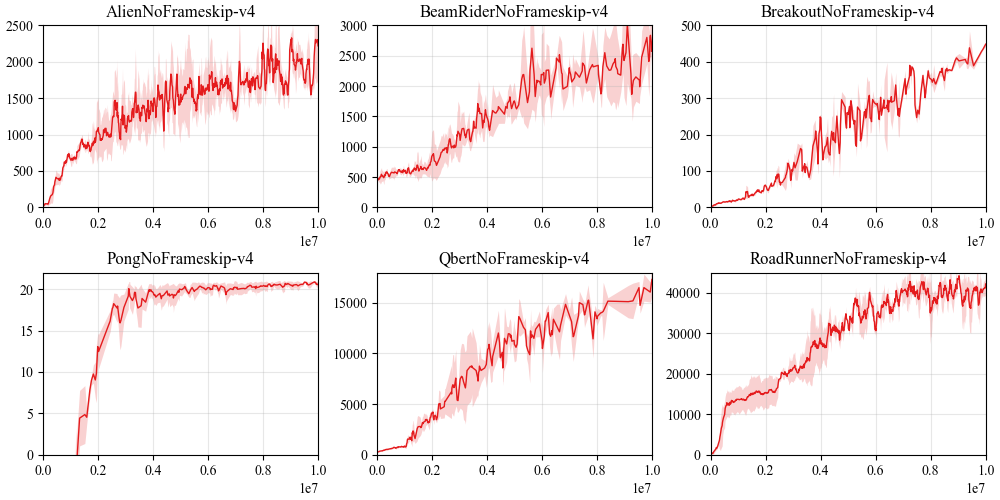
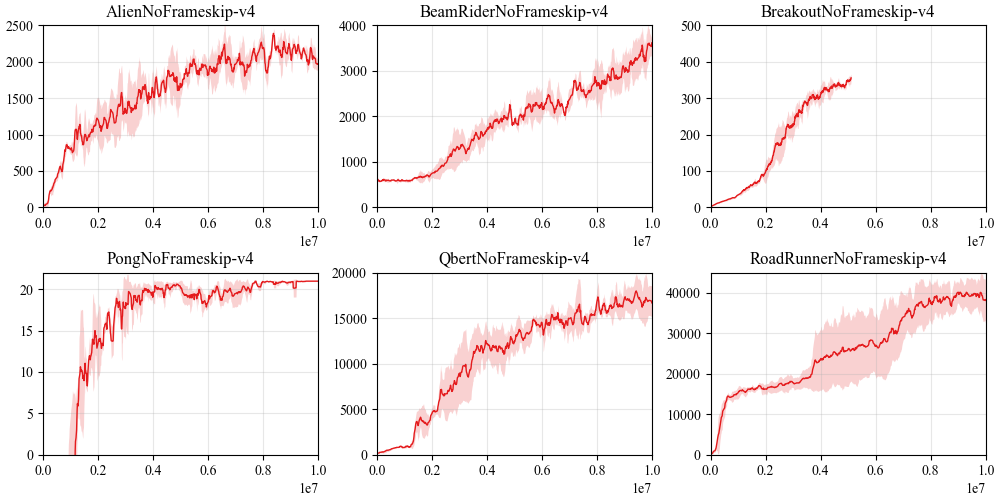
use xparl

diff --git a/benchmark/torch/ppo/env_utils.py b/benchmark/torch/ppo/env_utils.py
@@ -17,13 +17,14 @@ import gym
 import numpy as np
 from parl.utils import logger
 from parl.env.atari_wrappers import wrap_deepmind
+from parl.env.mujoco_wrappers import wrap_rms
 
+TEST_EPISODE = 3
 # wrapper parameters for atari env
 ENV_DIM = 84
 OBS_FORMAT = 'NCHW'
 # wrapper parameters for mujoco env
 GAMMA = 0.99
-CLIP_BOUND = 10
 
 
 class ParallelEnv(object):
@@ -46,13 +47,13 @@ class ParallelEnv(object):
         else:
             self.env_list = [base_env(env_name) for _ in range(self.env_num)]
 
-        self.obs_space = self.env_list[0].obs_space
-        self.act_space = self.env_list[0].act_space
         self._max_episode_steps = self.env_list[0]._max_episode_steps
 
-        self.episode_reward_list = [0] * self.env_num
-        self.episode_steps_list = [0] * self.env_num
         self.total_steps = 0
+        self.episode_steps_list = [0] * self.env_num
+        self.episode_reward_list = [0] * self.env_num
+        # used for env initialization for evaluating mujoco environment
+        self.eval_ob_rms = None
 
     def reset(self):
         obs_list = [env.reset() for env in self.env_list]
@@ -62,10 +63,7 @@ class ParallelEnv(object):
         return self.obs_list
 
     def step(self, action_list):
-        next_obs_list = []
-        reward_list = []
-        done_list = []
-        info_list = []
+        next_obs_list, reward_list, done_list, info_list = [], [], [], []
         if self.use_xparl:
             return_list = [
                 self.env_list[i].step(action_list[i])
@@ -96,12 +94,16 @@ class ParallelEnv(object):
 
             if done or self.episode_steps_list[i] >= self._max_episode_steps:
                 # logger.info("Training env {} done, episode reward: {}".format(i, self.episode_reward_list[i]))
+                if self.use_xparl:
+                    obs = self.env_list[i].reset()
+                    next_obs = obs.get()
+                    next_obs = np.array(next_obs)
+                else:
+                    next_obs = self.env_list[i].reset()
                 self.episode_steps_list[i] = 0
                 self.episode_reward_list[i] = 0
+                self.global_ob_rms = self.env_list[i].get_ob_rms()
 
-                next_obs = self.env_list[i].reset()
-                if self.use_xparl:
-                    pass
             next_obs_list.append(next_obs)
             reward_list.append(reward)
             done_list.append(done)
@@ -111,21 +113,19 @@ class ParallelEnv(object):
 
 
 class LocalEnv(object):
-    def __init__(self, env_name, env_seed=None):
+    def __init__(self, env_name, env_seed=None, test=False, ob_rms=None):
         env = gym.make(env_name)
         self._max_episode_steps = env._max_episode_steps
-        env = gym.wrappers.RecordEpisodeStatistics(env)
 
         if hasattr(env.action_space, 'high'):
-            env = gym.wrappers.ClipAction(env)
-            env = gym.wrappers.NormalizeObservation(env)
-            env = gym.wrappers.TransformObservation(
-                env, lambda obs: np.clip(obs, -CLIP_BOUND, CLIP_BOUND))
-            env = gym.wrappers.NormalizeReward(env, gamma=GAMMA)
-            env = gym.wrappers.TransformReward(
-                env, lambda reward: np.clip(reward, -CLIP_BOUND, CLIP_BOUND))
-            self.env = env
+            self.continuous_action = True
+            if test:
+                self.env = wrap_rms(env, GAMMA, test=True, ob_rms=ob_rms)
+            else:
+                self.env = wrap_rms(env, gamma=GAMMA)
         elif hasattr(env.action_space, 'n'):
+            self.continuous_action = False
+            env = gym.wrappers.RecordEpisodeStatistics(env)
             self.env = wrap_deepmind(env, dim=ENV_DIM, obs_format=OBS_FORMAT)
         else:
             raise AssertionError(
@@ -142,37 +142,49 @@ class LocalEnv(object):
 
     def reset(self):
         obs = self.env.reset()
+        if obs.shape[0] == 1:
+            obs = np.squeeze(obs, axis=0)
         return obs
 
     def step(self, action):
-        return self.env.step(action)
+        next_obs, reward, done, info = self.env.step(action)
+        if next_obs.shape[0] == 1:
+            next_obs = np.squeeze(next_obs, axis=0)
+        return next_obs, reward, done, info
+
+    def get_ob_rms(self):
+        if self.continuous_action:
+            return self.env.get_ob_rms()
+        else:
+            return None
+
+    def set_ob_rms(self, ob_rms):
+        if self.continuous_action:
+            return self.env.set_ob_rms(ob_rms)
+        else:
+            return None
 
 
 @parl.remote_class(wait=False)
 class RemoteEnv(object):
-    def __init__(self, env_name, env_seed=None):
+    def __init__(self, env_name, env_seed=None, test=False, ob_rms=None):
         env = gym.make(env_name)
         self._max_episode_steps = env._max_episode_steps
-        env = gym.wrappers.RecordEpisodeStatistics(env)
 
         if hasattr(env.action_space, 'high'):
-            env = gym.wrappers.ClipAction(env)
-            env = gym.wrappers.NormalizeObservation(env)
-            env = gym.wrappers.TransformObservation(
-                env, lambda obs: np.clip(obs, -10, 10))
-            env = gym.wrappers.NormalizeReward(env, gamma=0.99)
-            env = gym.wrappers.TransformReward(
-                env, lambda reward: np.clip(reward, -10, 10))
-            self.env = env
+            self.continuous_action = True
+            if test:
+                self.env = wrap_rms(env, GAMMA, test=True, ob_rms=ob_rms)
+            else:
+                self.env = wrap_rms(env, gamma=GAMMA)
         elif hasattr(env.action_space, 'n'):
+            self.continuous_action = False
+            env = gym.wrappers.RecordEpisodeStatistics(env)
             self.env = wrap_deepmind(env, dim=ENV_DIM, obs_format=OBS_FORMAT)
         else:
             raise AssertionError(
                 "act_space must be instance of gym.spaces.Box or gym.spaces.Discrete"
             )
-
-        self.obs_space = self.env.observation_space
-        self.act_space = self.env.action_space
         if env_seed:
             self.env.seed(env_seed)
             self.env.action_space.seed(env_seed)
@@ -184,3 +196,20 @@ class RemoteEnv(object):
 
     def step(self, action):
         return self.env.step(action)
+
+    def get_ob_rms(self):
+        if self.continuous_action:
+            return self.env.get_ob_rms()
+        else:
+            return None
+
+    def set_ob_rms(self, ob_rms):
+        if self.continuous_action:
+            return self.env.set_ob_rms(ob_rms)
+        else:
+            return None
+
+    def render(self):
+        return logger.warning(
+            'Can not render in remote environment, render() have been skipped.'
+        )

diff --git a/benchmark/torch/ppo/train.py b/benchmark/torch/ppo/train.py
@@ -26,35 +26,44 @@ from agent import PPOAgent
 
 # Runs policy until 'real done' and returns episode reward
 # A fixed seed is used for the eval environment
-def run_evaluate_episodes(agent, eval_env_seed=120):
-    env = LocalEnv(args.env, env_seed=eval_env_seed)
+def run_evaluate_episodes(agent, eval_env, eval_episodes):
     eval_reward = 0.
-    while True:
-        obs = env.reset()
+    eval_episode_rewards = []
+    while len(eval_episode_rewards) < eval_episodes:
+        obs = eval_env.reset()
         done = False
         while not done:
             action = agent.predict(obs)
-            obs, reward, done, info = env.step(action)
+            obs, reward, done, info = eval_env.step(action)
         if "episode" in info.keys():
             eval_reward = info["episode"]["r"]
-            break
-    return eval_reward
+            eval_episode_rewards.append(eval_reward)
+    return np.mean(eval_episode_rewards)
 
 
 def main():
     logger.info("------------------- PPO ---------------------")
-    logger.info('Env: {}, env_num: {}, seed: {}'.format(
-        args.env, args.env_num, args.seed))
+    logger.info('Env: {}, seed: {}'.format(args.env, args.seed))
     logger.info("---------------------------------------------")
 
-    logger.set_dir('./train_logs/{}_{}'.format(args.env, args.seed))
-
     config = Config['mujoco'] if args.continuous_action else Config['atari']
+    if args.env_num:
+        config['env_num'] = args.env_num
+    config['batch_size'] = int(config['env_num'] * config['step_nums'])
+    config['minibatch_size'] = int(
+        config['batch_size'] // config['num_minibatches'])
+    config['num_updates'] = int(
+        config['train_total_steps'] // config['batch_size'])
+
+    logger.set_dir('./train_logs_{}_envs/{}_{}'.format(config['env_num'],
+                                                       args.env, args.seed))
 
     envs = ParallelEnv(
         args.env, args.seed, config=config, xparl_addr=args.xparl_addr)
-    obs_space = envs.obs_space
-    act_space = envs.act_space
+    eval_env = LocalEnv(args.env, test=True)
+
+    obs_space = eval_env.obs_space
+    act_space = eval_env.act_space
 
     model = PPOModel(obs_space, act_space)
     ppo = PPO(model, config)
@@ -78,15 +87,14 @@ def main():
             rollout.append(obs, action, logprob, reward, done, value.flatten())
             obs, done = next_obs, next_done
 
-            for item in info:
-                if "episode" in item.keys():
-                    rewards = item['episode']['r']
+            for k in range(config['env_num']):
+                if done[k]:
                     logger.info(
-                        "Training: total steps={}, episode reward={}".format(
-                            total_steps, rewards))
-                    tensorboard.add_scalar("train/episode_reward", rewards,
+                        "Training: total steps={}, episodic_return={}".format(
+                            total_steps, info[k]['episode']['r']))
+                    tensorboard.add_scalar("train/episode_reward",
+                                           info[k]["episode"]["r"],
                                            total_steps)
-                    break
 
         # Bootstrap value if not done
         value = agent.value(obs)
@@ -99,11 +107,16 @@ def main():
         if (total_steps + 1) // args.test_every_steps >= test_flag:
             while (total_steps + 1) // args.test_every_steps >= test_flag:
                 test_flag += 1
-                avg_reward = run_evaluate_episodes(agent)
+                if args.continuous_action:
+                    ob_ram = envs.eval_ob_rms
+                    eval_env.set_ob_rms(ob_ram)
+
+                avg_reward = run_evaluate_episodes(agent, eval_env,
+                                                   config['eval_episode'])
                 tensorboard.add_scalar('eval/episode_reward', avg_reward,
                                        total_steps)
                 logger.info('Evaluation over: {} episodes, Reward: {}'.format(
-                    3, avg_reward))
+                    config['eval_episode'], avg_reward))
 
 
 if __name__ == "__main__":
@@ -111,31 +124,31 @@ if __name__ == "__main__":
     parser.add_argument(
         "--env",
         type=str,
-        default="HalfCheetah-v2",
-        help="the id of the environment")
+        default="PongNoFrameskip-v4",
+        help="OpenAI gym environment name")
     parser.add_argument(
         "--seed", type=int, default=110, help="seed of the experiment")
     parser.add_argument(
         "--env_num",
         type=int,
-        default=1,
+        default=None,
         help=
         "number of the environment. Note: if greater than 1, xparl is needed")
     parser.add_argument(
-        "--continuous_action",
-        type=bool,
-        default=True,
-        help="the type of the environment")
+        '--continuous_action',
+        action='store_true',
+        default=False,
+        help='action type of the environment')
     parser.add_argument(
         "--xparl_addr",
         type=str,
         default=None,
-        help="the id of the environment")
+        help="xparl address for distributed training ")
     parser.add_argument(
         '--test_every_steps',
         type=int,
         default=int(5e3),
-        help='The step interval between two consecutive evaluations')
+        help='the step interval between two consecutive evaluations')
 
     args = parser.parse_args()
     main()

diff --git a/benchmark/torch/ppo/configs.py b/benchmark/torch/ppo/configs.py
@@ -25,10 +25,7 @@ atari_config = {
     'num_minibatches': 4,
     'update_epochs':
     4,  # number of epochs for updating using each T data (ie K in the paper)
-    'batch_size': int(8 * 128),  # env_num * step_nums
-    'minibatch_size': int(8 * 128 // 4),  # batch_size // num_minibatches
-    'num_updates': int(
-        int(1e7) // int(8 * 128)),  # train_total_steps // batch_size
+    'eval_episode': 3,
 
     #========== coefficient of ppo ==========
     'gamma': 0.99,
@@ -57,12 +54,9 @@ mujoco_config = {
     'step_nums': 2048,
     'num_minibatches': 32,
     'update_epochs': 10,
-    'batch_size': int(1 * 2048),
-    'minibatch_size': int(1 * 2048 // 32),
-    'num_updates': int(int(1e6) // int(1 * 2048)),
     'start_lr': 3e-4,
     'eps': 1e-5,
-
+    'eval_episode': 3,
     #========== coefficient of ppo ==========
     'gamma': 0.99,
     'gae': True,

diff --git a/benchmark/torch/ppo/README.md b/benchmark/torch/ppo/README.md
@@ -26,19 +26,16 @@ Please see [mujoco-py](https://github.com/openai/mujoco-py) to know more about M
 ### Local Training:
 
 ```
-# To train an agent for continuous action game (Mujoco: HalfCheetah-v2 by default)
+# To train an agent for discrete action game (Atari: PongNoFrameskip-v4 by default)
 python train.py
 
-# To train an agent for discrete action game (Atari)
-python train.py --env 'BreakoutNoFrameskip-v4' --env_num 8 --continuous_action False
-
-# For more customized arguments
-# python train.py --help
+# To train an agent for continuous action game (Mujoco)
+python train.py --env 'HalfCheetah-v2' --continuous_action
 ```
 
 ### Distributed Training
 Accelerate training process when `env_num > 1`.     
-At first, we can start a local cluster with 5 CPUs:
+At first, we can start a local cluster with 8 CPUs:
 
 ```
 xparl start --port 8010 --cpu_num 8
@@ -51,5 +48,11 @@ command. For more information about the cluster, please refer to our
 Then we can start the distributed training by running:
 
 ```
-python train.py --env 'BreakoutNoFrameskip-v4' --env_num 8 --continuous_action False --xparl_addr 'localhost:8010'
+python train.py --env "PongNoFrameskip-v4" --env_num 8 --xparl_addr 'localhost:8010'
 ```
+#### Training time Comparison
+
+|  Environment         | env_num  | Time/h (local, distributed) |
+|----|----|----|
+|  PongNoFrameskip-v4  | 8  | 37.28, 13.36 |
+| BreakoutNoFrameskip-v4  | 8 | - |
